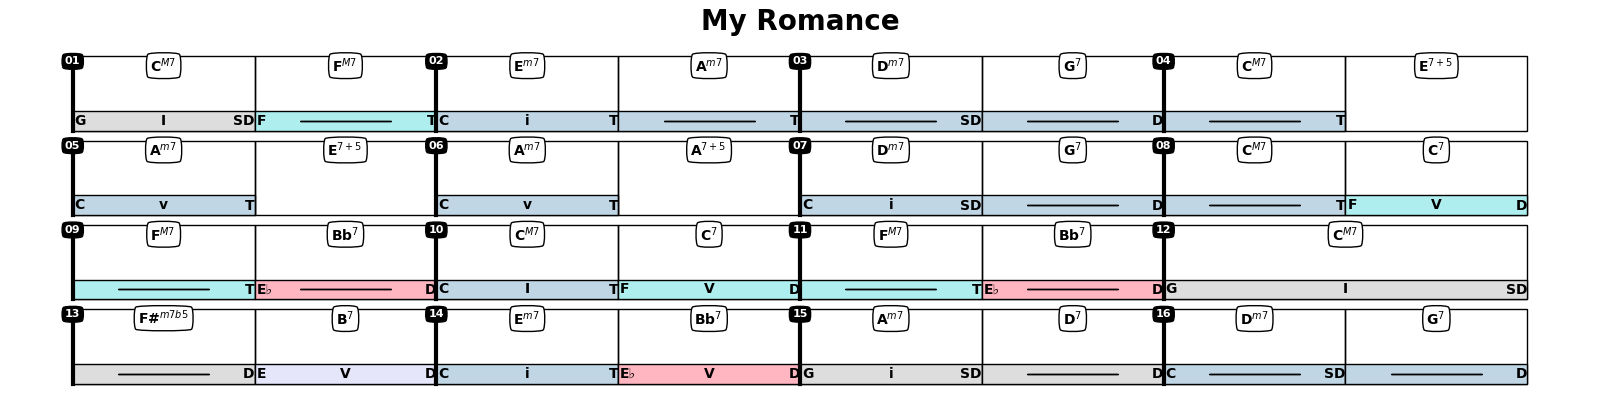
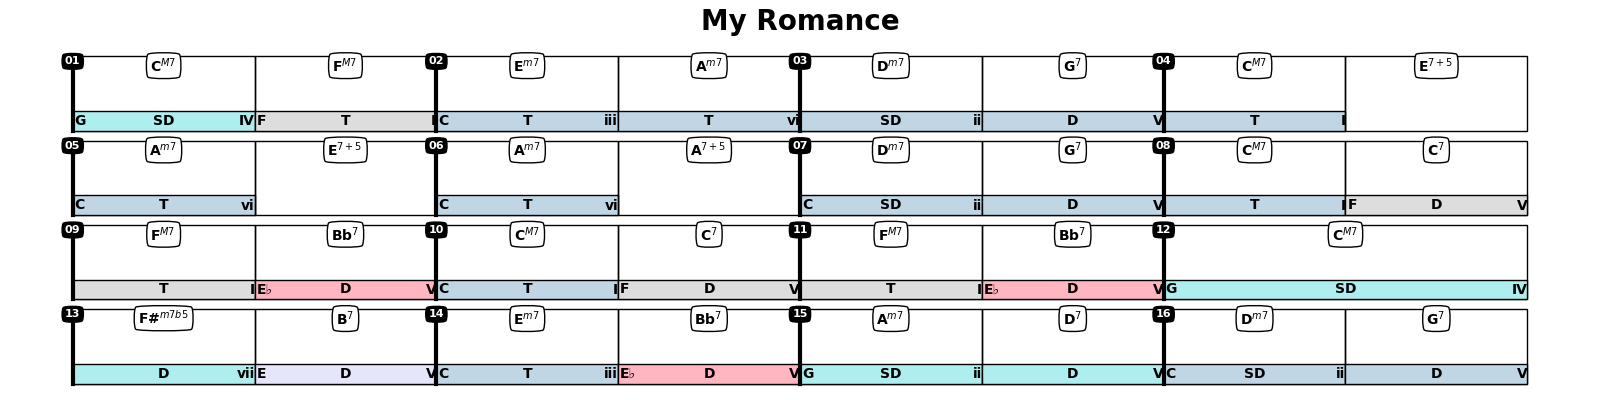
pandas annotation

diff --git a/jazzElements/progression.py b/jazzElements/progression.py
@@ -108,26 +108,26 @@ class Progression:
                  bbox=dict(boxstyle='round4', fc='w'), weight=1000)
             cadh = 40
 
-            if 'scale' in chord:
-                for si, s in enumerate(chord['scale']):
+            if 'sca' in chord:
+                for si, s in enumerate(chord['sca']):
                     if len(s):
                         bgd = patches.Rectangle((xChr, yChr + si * cadh), wChr, cadh, fill=True, clip_on=False,
                                                 color=self.scaleColors[s], alpha=1, ec='k')
                         ax.add_patch(bgd)
 
-                        if chr == 0 or s not in self.chords.loc[chr-1].get('scale', []):
+                        if chr == 0 or s not in self.chords.loc[chr-1].get('sca', []):
                             text(xChr + 2, yChr + cadh / 2 + si * cadh, s,
                                  color='k', va='center',
                                  ha='left', fontSize=10, weight='bold')
 
-            if 'degree' in chord:
-                for di, d in enumerate(chord['degree']):
+            if 'deg' in chord:
+                for di, d in enumerate(chord['deg']):
                     text(xChr + wChr, yChr + cadh / 2 + di * cadh - 1, d, color='k',
                          va='center', ha='right', fontSize=10, weight='bold')
 
             if 'cadence' in chord:
-                for ci, c in enumerate(chord['cadence']):
-                    if chr == 0 or c[0] not in [x[0] for x in self.chords.loc[chr - 1].get('cadence', [])]:
+                for ci, c in enumerate(chord['cad']):
+                    if chr == 0 or c[0] not in [x[0] for x in self.chords.loc[chr - 1].get('cad', [])]:
                         text(xChr + wChr / 2, yChr + ci * cadh + cadh / 2, c[0], color='k', va='center', ha='center',
                              fontSize=10, weight='bold')
                     else:
@@ -163,18 +163,17 @@ class Progression:
                                                        (hChr - 50) / 2],
                                                   nbOctaves=1, showName=False)
 
-            if 'scale' in chord:
-                Scale(chord['scale'][0]).plot(ax=ax, pos=[xChr + 5, yChr + 5, min(wChr - 10, 100), (hChr - 50) / 2],
+            if 'sca' in chord and len(chord['sca']):
+                Scale(chord['sca'][0]).plot(ax=ax, pos=[xChr + 5, yChr + 5, min(wChr - 10, 100), (hChr - 50) / 2],
                                               nbOctaves=1,
                                               showName=False)
 
-
     def plotBar(self, b, pos, plotType='fn'):
         xBar, yBar, wBar, hBar = pos
-        wBeat = (wBar - self.sepx * (len(prg.chords['bar']==b) - 1)) / self.beatsPerBar
+        wBeat = (wBar - self.sepx * (len(self.chords['bar']==b) - 1)) / self.beatsPerBar
         nBeats = 0
         ax = gca()
-        for ic, c in prg.chords[prg.chords['bar']==b].iterrows():
+        for ic, c in self.chords[self.chords['bar']==b].iterrows():
             posChr = [xBar + wBeat * nBeats + self.sepx * (ic), yBar, c['beats'] * wBeat, hBar]
             self.plotChord(ax, ic, posChr, plotType=plotType)
             nBeats += c['beats']
@@ -189,8 +188,8 @@ class Progression:
              bbox=dict(boxstyle='round4', fc='k'))
 
     def countKeys(self):
-        if 'scale' in self.chords:
-            s = [val for sublist in self.chords.scale for val in sublist]
+        if 'sca' in self.chords:
+            s = [val for sublist in self.chords.sca for val in sublist]
             s = [(x, s.count(x)) for x in set(s)]
             s.sort(key=lambda s: s[1], reverse=True)
             return s
@@ -316,15 +315,12 @@ class Progression:
         if method == 'graph':
             ann = annGraph(self.chords['chr'].values)
             ann.annotate(reduce=True)
-
-            for v in ['fn','scale','cadence','degree']:
-                if hasattr(ann,v):
-                    self.chords[v]=getattr(ann,v)
+            self.chords=pd.concat([self.chords,ann.ann],1)
 
         elif method == 'std':
             warnings.warn('not implemented yet') # todo: implement the std annotation
-            self.findCadences()
-            self.findIsolated()
+            # self.findCadences()
+            # self.findIsolated()
 
         """
         Harmonic Analysis of the chord progression
@@ -352,7 +348,7 @@ class Progression:
         then we can go into crazy stuff i.e. side slipping, cycled patterns, chromatic runs etc...
         """
 
-prg = Progression('Misty')
-self=prg
+
+prg=Progression('Misty')
 prg.annotate()
-prg.plot()
+prg.plot('kbd')

diff --git a/jazzElements/annotate.py b/jazzElements/annotate.py
@@ -1,7 +1,9 @@
-from jazzElements.scale import Scale
+import pandas as pd
+
 from jazzElements.chord import Chord
 from jazzElements.note import Note
-import warnings
+from jazzElements.scale import Scale
+
 
 class CadenceGraph():
     # todo: add T, SD, D
@@ -45,25 +47,26 @@ class CadenceGraph():
                     F.append(f)
         return F
 
+
 class Annotate():
     def __init__(self, chords):
         self.name = ''
         self.description = ''
+        self.ann = pd.DataFrame(columns=['fn','deg','sca','cad'])
         self.chords = [Chord(c) for c in chords]
         self.cleanup()
 
     def cleanup(self):
-        self.function = [[] for c in self.chords]
-        self.degree = [[] for c in self.chords]
-        self.scale = [[] for c in self.chords]
-        self.cadence = [[] for c in self.chords]
+        self.fn = [[] for c in self.chords]
+        self.deg =  [[] for c in self.chords]
+        self.sca =  [[] for c in self.chords]
+        self.cad =  [[] for c in self.chords]
 
     def run(self, reduce=True):
         """
         Fills self.ann with the annotations
         format: (<function>,<degree>,<scale>,<cadence>)
         """
-        self.cleanup()
 
     def print(self):
         print('{:7}|{:3}|{:3}|{:3}|{:15}'.format('chord', 'fn', 'deg', 'sca', 'cadence'))
@@ -74,6 +77,7 @@ class Annotate():
                 ','.join(self.degree[c]),
                 ','.join(self.scale[c]),
                 ','.join(self.cadence[c])))
+
 
 class annGraph(Annotate):
     def __init__(self, chords):
@@ -119,15 +123,6 @@ class annGraph(Annotate):
         ##
         return Seq
 
-    def _annChord(self, pos, v):
-        if pos < len(self.chords):
-            self.function[pos].append(v[0])
-            self.degree[pos].append(v[1])
-            self.scale[pos].append(v[2])
-            self.cadence[pos].append(v[3])
-        else:
-            warnings.warn('error, fix idx issues')
-
     def annotate(self, reduce=True):
         self.cleanup()
         # Find cadences in all keys
@@ -140,21 +135,19 @@ class annGraph(Annotate):
         for x in X:
             if not reduce or not all(used[x[1]:(x[1] + x[0])]):  # All spots are unused
                 for ci, c in enumerate(range(x[1], (x[1] + x[0]))):
-                    self._annChord(c, [CadenceGraph.fnTypes[x[3][ci]], x[3][ci], x[2], '-'.join(x[3])])
+                    self.fn[c].append(CadenceGraph.fnTypes[x[3][ci]])
+                    self.deg[c].append(x[3][ci])
+                    self.sca[c].append(x[2])
+                    self.cad[c].append('-'.join(x[3]))
                     used[c] = True
 
+        self.ann = pd.DataFrame(dict( fn=self.fn, deg=self.deg, sca=self.sca, cad=self.cad))
 
-# from jazzElements.progression import Progression
-# prg=Progression('Misty')
-# ann=annGraph([chr['chord'] for chr in prg.chords])
-# ann.run(reduce=True)
-#
-#
-# import pandas as pd
-# df=pd.DataFrame(data=[[chr.name for chr in ann.chords],ann.function,ann.degree,ann.scale,ann.cadence],
-#                 index=['chr','fn','deg','sca','cad']).T
-#
+"""
+prg = Progression('My Romance')
 
-
-
-
+ann=annGraph(prg.chords['chr'].values)
+self=ann
+ann.annotate(False)
+ann.ann
+"""

diff --git a/tests/test_progression.py b/tests/test_progression.py
@@ -1,10 +1,9 @@
-from jazzElements.base import Progression
-from jazzElements.scale import Scale
+from jazzElements.progression import Progression
 from jazzElements.chord import Chord
 from jazzElements.note import Note
 
 
 def test_basics():
-    assert [Chord(c['chord']).root for c in Progression(''.join(['|{}m7'.format(k) for k in Note.chrFlat])+'|').chords]==Note.chrFlat
-    assert Progression('|Cm7|%|').chords == Progression('|Cm7|Cm7|').chords
-    assert Progression('|Cm7,%|').chords == Progression('|Cm7,Cm7|').chords
+    assert [Chord(c).root for c in Progression(''.join(['|{}m7'.format(k) for k in Note.chrFlat])+'|').chords['chr']]==Note.chrFlat
+    assert all(Progression('|Cm7|%|').chords['chr'].values == Progression('|Cm7|Cm7|').chords['chr'].values)
+    assert all(Progression('|Cm7,%|').chords['chr'].values == Progression('|Cm7,Cm7|').chords['chr'].values)

diff --git a/scripts/mkFigs.py b/scripts/mkFigs.py
@@ -10,14 +10,14 @@ def plotKnownProgressions(plotType='fn',tgt='d:\\Code\\jazzElements\\img\\'):
     """
     for song in progressions:
         for method in ['graph','std']:
-            print('== '+song+' ==')
+            print('== '+song+' == ('+method+')')
             prg = Progression(song)
             prg.annotate(method=method,reduce=True)
             prg.plot(plotType)
             savefig(tgt + plotType+'\\' + song.replace(' ','')+' '+method)
             close('all')
 
-# plotKnownProgressions('kbd')
 plotKnownProgressions('fn')
+plotKnownProgressions('kbd')
 
 

diff --git a/jazzElements/chord.py b/jazzElements/chord.py
@@ -260,10 +260,9 @@ class Chord:
 
     def __str__(self):
         if not self.notes:
-            return '{}{} ? | ?'.format(self.root.name, self.type)
-        return '{}{} {} | {}'.format(self.root.name, self.type,
-                                     '-'.join(self.intStr),
-                                     ' '.join([str(n) for n in self.notes]))
+            return '?'
+        else:
+            return self.root.name+self.type
 
     def __repr__(self):
         return self.__str__()

diff --git a/tests/test_note.py b/tests/test_note.py
@@ -1,5 +1,3 @@
-from jazzElements.scale import Scale
-from jazzElements.chord import Chord
 from jazzElements.note import Note
 
 

diff --git a/tests/test_chord.py b/tests/test_chord.py
@@ -1,4 +1,3 @@
-from jazzElements.scale import Scale
 from jazzElements.chord import Chord
 from jazzElements.note import Note
 
